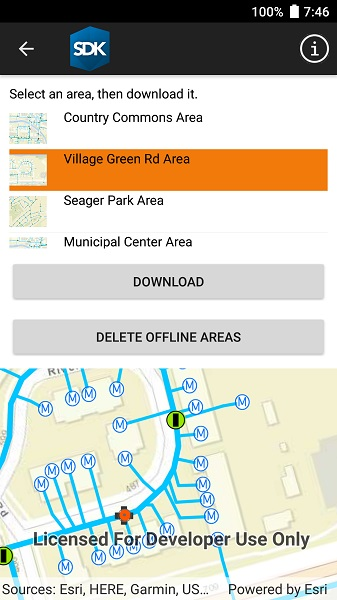
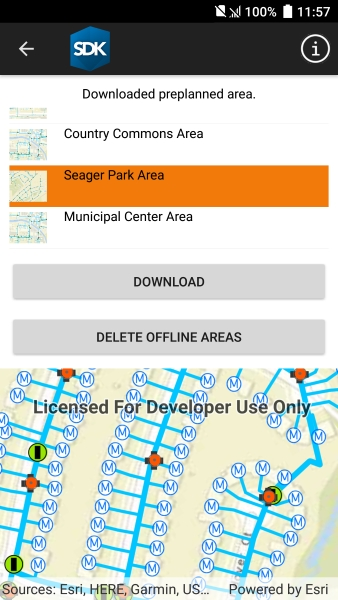
Changes based on review

diff --git a/src/Forms/Shared/Samples/Map/DownloadPreplannedMap/DownloadPreplannedMap.xaml b/src/Forms/Shared/Samples/Map/DownloadPreplannedMap/DownloadPreplannedMap.xaml
@@ -8,7 +8,9 @@
                         BindingContext="{x:Reference Name=ResponsiveFormContainer}" />
         <resources:ResponsiveFormContainer x:Name="ResponsiveFormContainer">
             <StackLayout>
-                <Label Text="Select an area, then download it." />
+                <Label x:Name="MessageLabel" 
+                       Text="Select an area, then download it."
+                       HorizontalTextAlignment="Center"/>
                 <ListView x:Name="AreasList" HeightRequest="150">
                     <ListView.ItemTemplate>
                         <DataTemplate>

diff --git a/src/UWP/ArcGISRuntime.UWP.Viewer/Samples/Map/DownloadPreplannedMap/DownloadPreplannedMap.xaml b/src/UWP/ArcGISRuntime.UWP.Viewer/Samples/Map/DownloadPreplannedMap/DownloadPreplannedMap.xaml
@@ -7,7 +7,9 @@
         <esriUI:MapView x:Name="MyMapView" />
         <Border Style="{StaticResource BorderStyle}">
             <StackPanel>
-                <TextBlock Text="Select an area, then download it." FontWeight="SemiBold" />
+                <TextBlock x:Name="MessageLabel" 
+                           Text="Select an area, then download it." 
+                           FontWeight="SemiBold" HorizontalAlignment="Center" Margin="5" />
                 <ListView x:Name="AreasList">
                     <ListView.ItemTemplate>
                         <DataTemplate>

diff --git a/src/WPF/ArcGISRuntime.WPF.Viewer/Samples/Map/DownloadPreplannedMap/DownloadPreplannedMap.xaml b/src/WPF/ArcGISRuntime.WPF.Viewer/Samples/Map/DownloadPreplannedMap/DownloadPreplannedMap.xaml
@@ -6,7 +6,9 @@
         <esri:MapView x:Name="MyMapView" />
         <Border Style="{StaticResource BorderStyle}">
             <StackPanel>
-                <TextBlock Text="Select an area, then download it." FontWeight="SemiBold" />
+                <TextBlock x:Name="MessageLabel" 
+                           Text="Select an area, then download it." 
+                           FontWeight="SemiBold" HorizontalAlignment="Center" Margin="5" />
                 <ListView x:Name="AreasList">
                     <ListView.ItemTemplate>
                         <DataTemplate>

diff --git a/src/Android/Xamarin.Android/Samples/Map/DownloadPreplannedMap/DownloadPreplannedMap.cs b/src/Android/Xamarin.Android/Samples/Map/DownloadPreplannedMap/DownloadPreplannedMap.cs
@@ -41,6 +41,7 @@ namespace ArcGISRuntimeXamarin.Samples.DownloadPreplannedMap
         private LinearLayout _mapListView;
         private AlertDialog _progressView;
         private ProgressBar _progressBar;
+        private TextView _helpLabel;
 
         // ID of a web map with preplanned map areas.
         private const string PortalItemId = "acc027394bc84c2fb04d1ed317aac674";
@@ -132,10 +133,16 @@ namespace ArcGISRuntimeXamarin.Samples.DownloadPreplannedMap
             {
                 try
                 {
+                    // Open the offline map package.
                     var localMapArea = await MobileMapPackage.OpenAsync(path);
+
+                    // Open the first map in the package.
                     _myMapView.Map = localMapArea.Maps.First();
+
+                    // Update the UI.
                     _progressView.SetMessage("");
                     _progressView.Dismiss();
+                    _helpLabel.Text = "Opened offline area.";
                     return;
                 }
                 catch (Exception e)
@@ -181,6 +188,9 @@ namespace ArcGISRuntimeXamarin.Samples.DownloadPreplannedMap
 
                 // Show the downloaded map.
                 _myMapView.Map = results.OfflineMap;
+
+                // Update the UI.
+                _helpLabel.Text = "Downloaded offline area.";
             }
             catch (Exception ex)
             {
@@ -214,6 +224,9 @@ namespace ArcGISRuntimeXamarin.Samples.DownloadPreplannedMap
             // Delete all data from the temporary data folder.
             Directory.Delete(_offlineDataFolder, true);
             Directory.CreateDirectory(_offlineDataFolder);
+
+            // Update the UI.
+            _helpLabel.Text = "Deleted offline areas.";
         }
 
         private void DeleteButtonOnClick(object sender, EventArgs e)
@@ -254,9 +267,9 @@ namespace ArcGISRuntimeXamarin.Samples.DownloadPreplannedMap
             var layout = new LinearLayout(this) {Orientation = Orientation.Vertical};
 
             // Add a help label.
-            TextView helpLabel = new TextView(this);
-            helpLabel.Text = "Select a map area to take offline.";
-            layout.AddView(helpLabel);
+            _helpLabel = new TextView(this);
+            _helpLabel.Text = "Select a map area to take offline.";
+            layout.AddView(_helpLabel);
 
             // Add space for adding options for each map.
             _mapListView = new LinearLayout(this) {Orientation = Orientation.Horizontal};

diff --git a/src/WPF/ArcGISRuntime.WPF.Viewer/Samples/Map/DownloadPreplannedMap/DownloadPreplannedMap.xaml.cs b/src/WPF/ArcGISRuntime.WPF.Viewer/Samples/Map/DownloadPreplannedMap/DownloadPreplannedMap.xaml.cs
@@ -110,10 +110,16 @@ namespace ArcGISRuntime.WPF.Samples.DownloadPreplannedMap
             {
                 try
                 {
+                    // Open the downloaded mobile map package.
                     var localMapArea = await MobileMapPackage.OpenAsync(path);
+
+                    // Show the first map.
                     MyMapView.Map = localMapArea.Maps.First();
+                    
+                    // Update the UI.
                     BusyText.Text = string.Empty;
                     BusyIndicator.Visibility = Visibility.Collapsed;
+                    MessageLabel.Text = "Opened offline area.";
                     return;
                 }
                 catch (Exception e)
@@ -159,6 +165,9 @@ namespace ArcGISRuntime.WPF.Samples.DownloadPreplannedMap
 
                 // Show the downloaded map.
                 MyMapView.Map = results.OfflineMap;
+
+                // Update the UI.
+                MessageLabel.Text = "Downloaded preplanned area.";
             }
             catch (Exception ex)
             {
@@ -191,6 +200,9 @@ namespace ArcGISRuntime.WPF.Samples.DownloadPreplannedMap
             // Delete all data from the temporary data folder.
             Directory.Delete(_offlineDataFolder, true);
             Directory.CreateDirectory(_offlineDataFolder);
+
+            // Update the UI.
+            MessageLabel.Text = "Deleted downloaded areas.";
         }
 
         private async void OnDownloadMapAreaClicked(object sender, RoutedEventArgs e)

diff --git a/src/UWP/ArcGISRuntime.UWP.Viewer/Samples/Map/DownloadPreplannedMap/DownloadPreplannedMap.xaml.cs b/src/UWP/ArcGISRuntime.UWP.Viewer/Samples/Map/DownloadPreplannedMap/DownloadPreplannedMap.xaml.cs
@@ -111,10 +111,16 @@ namespace ArcGISRuntime.UWP.Samples.DownloadPreplannedMap
             {
                 try
                 {
+                    // Open the offline map package.
                     var localMapArea = await MobileMapPackage.OpenAsync(path);
+
+                    // Display the first map.
                     MyMapView.Map = localMapArea.Maps.First();
+
+                    // Update the UI.
                     BusyText.Text = string.Empty;
                     BusyIndicator.Visibility = Visibility.Collapsed;
+                    MessageLabel.Text = "Opened offline area.";
                     return;
                 }
                 catch (Exception e)
@@ -160,6 +166,9 @@ namespace ArcGISRuntime.UWP.Samples.DownloadPreplannedMap
 
                 // Show the downloaded map.
                 MyMapView.Map = results.OfflineMap;
+
+                // Update the UI.
+                MessageLabel.Text = "Downloaded preplanned area.";
             }
             catch (Exception ex)
             {
@@ -192,6 +201,9 @@ namespace ArcGISRuntime.UWP.Samples.DownloadPreplannedMap
             // Delete all data from the temporary data folder.
             Directory.Delete(_offlineDataFolder, true);
             Directory.CreateDirectory(_offlineDataFolder);
+
+            // Update the UI.
+            MessageLabel.Text = "Deleted offline areas.";
         }
 
         private async void OnDownloadMapAreaClicked(object sender, RoutedEventArgs e)

diff --git a/src/Forms/Shared/Samples/Map/DownloadPreplannedMap/DownloadPreplannedMap.xaml.cs b/src/Forms/Shared/Samples/Map/DownloadPreplannedMap/DownloadPreplannedMap.xaml.cs
@@ -115,10 +115,16 @@ namespace ArcGISRuntimeXamarin.Samples.DownloadPreplannedMap
             {
                 try
                 {
+                    // Open the offline map package.
                     var localMapArea = await MobileMapPackage.OpenAsync(path);
+
+                    // Open the first map in the package.
                     MyMapView.Map = localMapArea.Maps.First();
+
+                    // Update the UI.
                     BusyText.Text = string.Empty;
                     BusyIndicator.IsVisible = false;
+                    MessageLabel.Text = "Opened offline area.";
                     return;
                 }
                 catch (Exception e)
@@ -164,6 +170,9 @@ namespace ArcGISRuntimeXamarin.Samples.DownloadPreplannedMap
 
                 // Show the downloaded map.
                 MyMapView.Map = results.OfflineMap;
+
+                // Update the UI.
+                MessageLabel.Text = "Downloaded preplanned area.";
             }
             catch (Exception ex)
             {
@@ -196,6 +205,9 @@ namespace ArcGISRuntimeXamarin.Samples.DownloadPreplannedMap
             // Delete all data from the temporary data folder.
             Directory.Delete(_offlineDataFolder, true);
             Directory.CreateDirectory(_offlineDataFolder);
+
+            // Update the UI.
+            MessageLabel.Text = "Deleted offline areas.";
         }
 
         private async void OnDownloadMapAreaClicked(object sender, EventArgs e)

diff --git a/src/iOS/Xamarin.iOS/Samples/Map/DownloadPreplannedMap/DownloadPreplannedMap.cs b/src/iOS/Xamarin.iOS/Samples/Map/DownloadPreplannedMap/DownloadPreplannedMap.cs
@@ -270,7 +270,7 @@ namespace ArcGISRuntimeXamarin.Samples.DownloadPreplannedMap
             finally
             {
                 _activityIndicator.StopAnimating();
-                _helpLabel.Text = "Choose a map area to take offline.";
+                _helpLabel.Text = "Deleted offline areas.";
             }
         }
 
